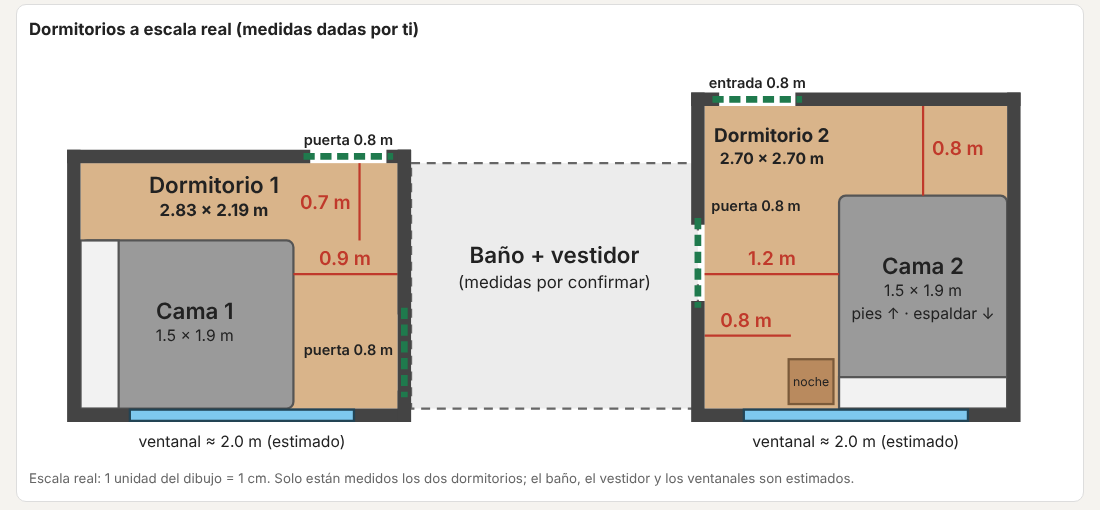
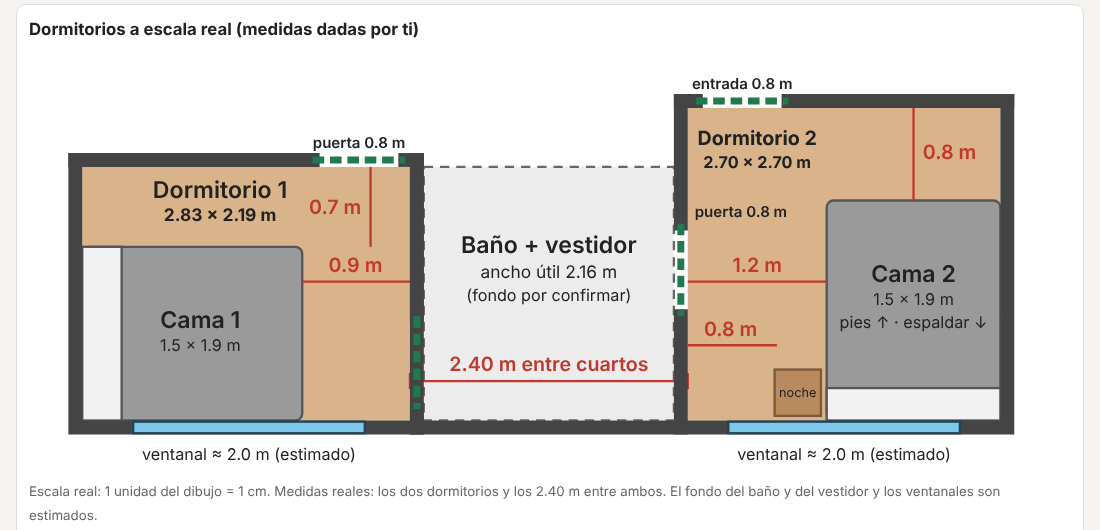
Agregar los 2.40 m entre dormitorios al dibujo a escala real
Claude-Session: https://claude.ai/code/session_01FjBeNf4WjH2KP9gBJAno4x

Changed region(s): [[0.0618, 0.1471, 0.9273, 0.8824], [0.0309, 0.9118, 0.9273, 1.0], [0.0309, 0.0294, 0.3709, 0.0882]]

diff --git a/index.html b/index.html
@@ -184,40 +184,45 @@
 
   <section class="card">
     <h2>Dormitorios a escala real (medidas dadas por ti)</h2>
-    <svg viewBox="-40 -50 930 370" role="img" aria-label="Dormitorios 1 y 2 a escala real">
+    <svg viewBox="-40 -50 900 370" role="img" aria-label="Dormitorios 1 y 2 a escala real, con 2.40 m entre ambos">
       <!-- pisos -->
       <rect x="6" y="51" width="283" height="219" fill="var(--floor)"/>
-      <rect x="563" y="0" width="270" height="270" fill="var(--floor)"/>
-      <!-- bloque central: baño + vestidor (medidas pendientes) -->
-      <rect x="301" y="51" width="256" height="219" fill="var(--bath)" opacity=".55"/>
-      <rect x="301" y="51" width="256" height="219" fill="none" stroke="var(--muted)" stroke-width="2" stroke-dasharray="8 6"/>
-      <text x="429" y="140" text-anchor="middle" class="lbl">Baño + vestidor</text>
-      <text x="429" y="162" text-anchor="middle" font-size="15">(medidas por confirmar)</text>
+      <rect x="529" y="0" width="270" height="270" fill="var(--floor)"/>
+      <!-- bloque central: baño + vestidor (ancho 2.16 m útil; fondo por confirmar) -->
+      <rect x="301" y="51" width="216" height="219" fill="var(--bath)" opacity=".55"/>
+      <rect x="301" y="51" width="216" height="219" fill="none" stroke="var(--muted)" stroke-width="2" stroke-dasharray="8 6"/>
+      <text x="409.0" y="125" text-anchor="middle" class="lbl">Baño + vestidor</text>
+      <text x="409.0" y="147" text-anchor="middle" font-size="15">ancho útil 2.16 m</text>
+      <text x="409.0" y="167" text-anchor="middle" font-size="14">(fondo por confirmar)</text>
+      <!-- 2.40 m entre cuartos -->
+      <line x1="289" y1="236" x2="529" y2="236" class="dim"/>
+      <line x1="289" y1="229" x2="289" y2="243" class="dim"/><line x1="529" y1="229" x2="529" y2="243" class="dim"/>
+      <text x="409.0" y="227" text-anchor="middle" class="dimt" font-size="16">2.40 m entre cuartos</text>
 
       <!-- camas -->
       <rect x="6" y="120" width="190" height="150" rx="6" fill="#9a9a9a" stroke="#555" stroke-width="2"/>
       <rect x="6" y="120" width="34" height="150" fill="#f2f2f2" stroke="#555" stroke-width="2"/>
       <text x="108" y="190" text-anchor="middle" class="lbl">Cama 1</text>
       <text x="108" y="210" text-anchor="middle" font-size="14">1.5 × 1.9 m</text>
-      <rect x="683" y="80" width="150" height="190" rx="6" fill="#9a9a9a" stroke="#555" stroke-width="2"/>
-      <rect x="683" y="242" width="150" height="28" fill="#f2f2f2" stroke="#555" stroke-width="2"/>
-      <text x="758" y="150" text-anchor="middle" class="lbl">Cama 2</text>
-      <text x="758" y="170" text-anchor="middle" font-size="14">1.5 × 1.9 m</text>
-      <text x="758" y="190" text-anchor="middle" font-size="14">pies ↑ · espaldar ↓</text>
-      <rect x="638" y="226" width="40" height="40" fill="#b98a5e" stroke="#7a5a3a" stroke-width="2"/>
-      <text x="658" y="250" text-anchor="middle" font-size="11">noche</text>
+      <rect x="649" y="80" width="150" height="190" rx="6" fill="#9a9a9a" stroke="#555" stroke-width="2"/>
+      <rect x="649" y="242" width="150" height="28" fill="#f2f2f2" stroke="#555" stroke-width="2"/>
+      <text x="724" y="150" text-anchor="middle" class="lbl">Cama 2</text>
+      <text x="724" y="170" text-anchor="middle" font-size="14">1.5 × 1.9 m</text>
+      <text x="724" y="190" text-anchor="middle" font-size="14">pies ↑ · espaldar ↓</text>
+      <rect x="604" y="226" width="40" height="40" fill="#b98a5e" stroke="#7a5a3a" stroke-width="2"/>
+      <text x="624" y="250" text-anchor="middle" font-size="11">noche</text>
 
-      <!-- cotas del dormitorio 1 -->
+      <!-- cotas dormitorio 1 -->
       <line x1="255" y1="51" x2="255" y2="120" class="dim"/><text x="247" y="92" text-anchor="end" class="dimt" font-size="15">0.7 m</text>
       <line x1="196" y1="150" x2="289" y2="150" class="dim"/><text x="242" y="142" text-anchor="middle" class="dimt" font-size="15">0.9 m</text>
       <text x="125" y="78" text-anchor="middle" class="lbl">Dormitorio 1</text>
       <text x="125" y="98" text-anchor="middle" font-size="15" font-weight="700">2.83 × 2.19 m</text>
-      <!-- cotas del dormitorio 2 -->
-      <line x1="563" y1="150" x2="683" y2="150" class="dim"/><text x="623" y="142" text-anchor="middle" class="dimt" font-size="15">1.2 m</text>
-      <line x1="758" y1="0" x2="758" y2="80" class="dim"/><text x="766" y="44" class="dimt" font-size="15">0.8 m</text>
-      <text x="623" y="32" text-anchor="middle" font-size="17" font-weight="700">Dormitorio 2</text>
-      <text x="623" y="52" text-anchor="middle" font-size="14" font-weight="700">2.70 × 2.70 m</text>
-      <line x1="640" y1="205" x2="563" y2="205" class="dim"/><text x="600" y="197" text-anchor="middle" class="dimt" font-size="14">0.8 m</text>
+      <!-- cotas dormitorio 2 -->
+      <line x1="529" y1="150" x2="649" y2="150" class="dim"/><text x="589" y="142" text-anchor="middle" class="dimt" font-size="15">1.2 m</text>
+      <line x1="724" y1="0" x2="724" y2="80" class="dim"/><text x="732" y="44" class="dimt" font-size="15">0.8 m</text>
+      <text x="589" y="32" text-anchor="middle" font-size="17" font-weight="700">Dormitorio 2</text>
+      <text x="589" y="52" text-anchor="middle" font-size="14" font-weight="700">2.70 × 2.70 m</text>
+      <line x1="606" y1="205" x2="529" y2="205" class="dim"/><text x="566" y="197" text-anchor="middle" class="dimt" font-size="14">0.8 m</text>
 
       <!-- paredes (12 cm) -->
       <g stroke="var(--wall)" stroke-width="12" fill="none" stroke-linecap="square">
@@ -226,32 +231,32 @@
         <line x1="285" y1="45" x2="295" y2="45"/>
         <line x1="295" y1="45" x2="295" y2="180"/>
         <line x1="295" y1="260" x2="295" y2="276"/>
-        <polyline points="557,100 557,-6"/>
-        <polyline points="557,180 557,276 839,276 839,-6"/>
-        <line x1="557" y1="-6" x2="570" y2="-6"/>
-        <line x1="650" y1="-6" x2="839" y2="-6"/>
+        <polyline points="523,100 523,-6"/>
+        <polyline points="523,180 523,276 805,276 805,-6"/>
+        <line x1="523" y1="-6" x2="536" y2="-6"/>
+        <line x1="616" y1="-6" x2="805" y2="-6"/>
+        <line x1="295" y1="276" x2="523" y2="276"/>
       </g>
-      <!-- bloque central (muros dashed) -->
       <!-- ventanales -->
       <rect x="50" y="271" width="200" height="10" fill="#7ec8ee" stroke="#245" stroke-width="2"/>
       <text x="150" y="304" text-anchor="middle" font-size="14">ventanal ≈ 2.0 m (estimado)</text>
-      <rect x="658" y="271" width="200" height="10" fill="#7ec8ee" stroke="#245" stroke-width="2" transform="translate(-60,0)"/>
-      <text x="698" y="304" text-anchor="middle" font-size="14">ventanal ≈ 2.0 m (estimado)</text>
+      <rect x="564" y="271" width="200" height="10" fill="#7ec8ee" stroke="#245" stroke-width="2"/>
+      <text x="664" y="304" text-anchor="middle" font-size="14">ventanal ≈ 2.0 m (estimado)</text>
       <!-- puertas corredizas 0.8 m -->
       <g stroke="var(--ok)" stroke-width="6" stroke-dasharray="10 5">
         <line x1="205" y1="45" x2="285" y2="45"/>
         <line x1="295" y1="180" x2="295" y2="260"/>
-        <line x1="557" y1="100" x2="557" y2="180"/>
-        <line x1="570" y1="-6" x2="650" y2="-6"/>
+        <line x1="523" y1="100" x2="523" y2="180"/>
+        <line x1="536" y1="-6" x2="616" y2="-6"/>
       </g>
       <g font-size="13" font-weight="600" style="fill:var(--ok)">
         <text x="245" y="35" text-anchor="middle">puerta 0.8 m</text>
-        <text x="285" y="222" text-anchor="end">puerta 0.8 m</text>
-        <text x="569" y="94" text-anchor="start">puerta 0.8 m</text>
-        <text x="610" y="-16" text-anchor="middle">entrada 0.8 m</text>
+        <text x="285" y="222" text-anchor="end" opacity="0">.</text>
+        <text x="535" y="94" text-anchor="start">puerta 0.8 m</text>
+        <text x="576" y="-16" text-anchor="middle">entrada 0.8 m</text>
       </g>
     </svg>
-    <small>Escala real: 1 unidad del dibujo = 1 cm. Solo están medidos los dos dormitorios; el baño, el vestidor y los ventanales son estimados.</small>
+    <small>Escala real: 1 unidad del dibujo = 1 cm. Medidas reales: los dos dormitorios y los 2.40 m entre ambos. El fondo del baño y del vestidor y los ventanales son estimados.</small>
   </section>
 
   <section class="card">
@@ -260,6 +265,7 @@
       <li><b>Dormitorio 2 (2.70 × 2.70 m, medida real):</b> cama queen (1.5 × 1.9 m) con el espaldar contra el ventanal y pegada a la pared este. Deja <span class="ok">0.8 m a los pies</span> y <span class="ok">1.2 m</span> en el costado de la entrada, donde cabe una mesa de noche de 0.4 m y aún quedan 0.8 m de paso. Cabe bien: es mejor que en el dibujo anterior.</li>
       <li><b>Ventanal (~2.3 m):</b> es más ancho que la cama (1.5 m), así que queda libre ~0.4 m a cada lado del espaldar. Si el alféizar es bajo, el espaldar tapa el centro del vidrio: conviene un espaldar bajo.</li>
       <li><b>Dormitorio 1 (2.83 × 2.19 m, medida real):</b> cama queen pegada a la pared sur: <span class="ok">0.7 m</span> de pasillo al norte y ~0.9 m a los pies. Centrada dejaría solo ~0.35 m por lado, sin paso. No caben mesas de noche a ambos lados.</li>
+      <li><b>Baño + vestidor (2.40 m entre los dormitorios):</b> descontando los dos muros de 12 cm, el ancho útil es ~2.16 m. Falta el fondo de esa franja para confirmar cuánto queda para el vestidor y cuánto para el baño.</li>
       <li><b>Límite del vestidor:</b> con 0.5 m de fondo, las prendas en gancho (~0.45 m de hombros) quedan justas y el acceso desde el dormitorio mide ~0.5 m: sirve como armario con puertas corredizas, no para entrar caminando. Lo normal para colgar es 0.55–0.6 m.</li>
       <li><b>Por confirmar:</b> si esa pared es estructural, revisarla con un ingeniero antes de abrir el hueco.</li>
       <li><b>Puertas corredizas (0.8 m), cuatro en total:</b> dormitorio 1 → sala (pared superior), dormitorio 1 → baño (cerca de la ventana), baño → sala y baño → dormitorio 2. La del dormitorio 2 da al pasillo de ~1.0 m junto a la cama. Las corredizas no necesitan espacio de apertura, pero sí ~0.8 m de pared libre a un lado para correr.</li>
